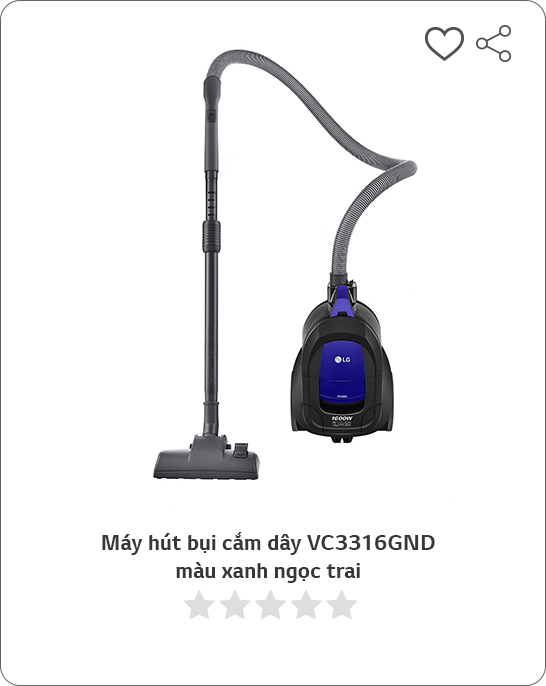
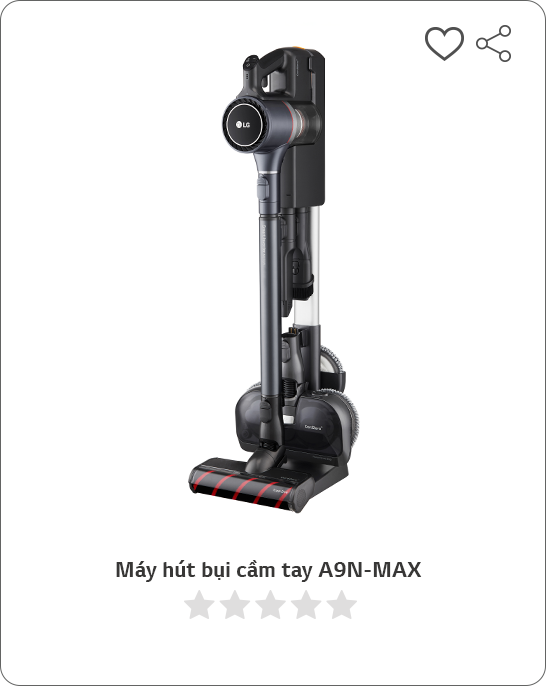
add

Changed region(s): [[0.1868, 0.0612, 0.8095, 0.8571]]

diff --git a/source/site/index.html b/source/site/index.html
@@ -124,7 +124,7 @@
                                    <li id="menu-2"><a href="/#FUNDS">THIẾT KẾ</a></li>
                                    <li id="menu-5"><a href="/#AI">AI</a></li>
                                    <li id="menu-6"><a href="/#PRODUCT">SẢN PHẨM</a></li>
-                                   <li id="menu-7"><a href="/#FORM">ĐĂNG KÝ</a></li>
+                                   <!-- <li id="menu-7"><a href="/#FORM">ĐĂNG KÝ</a></li> -->
                                </ul> 
                             </nav>
                             <div class="black-shadow"></div>
@@ -232,7 +232,7 @@
         </div>
     </section>
 
-    <section class="main-ia" id="IA">
+    <section class="main-ia" id="AI">
         <div class="container">
             <div class="row">
                 <div class="col-lg-3">
@@ -269,7 +269,7 @@
                     </a>
                 </div>
                 <div class="col-lg-4">
-                    <a href="https://www.lg.com/vn/may-hut-bui/lg-vc3316gnd" target="_blank">
+                    <a href="https://www.lg.com/vn/may-hut-bui/lg-a9n-max" target="_blank">
                         <div class="img-product"><img src="assets/images/3.png" alt="case 1"></div>
                         <div class="btn-product">MUA NGAY</div>
                     </a>

diff --git a/source/site/assets/css/style.css b/source/site/assets/css/style.css
@@ -1020,6 +1020,7 @@ textarea.form-input {
     background-repeat: no-repeat;
     min-height: 1100px;
     padding-top: 100px ;
+    display: none;
 }
 
 /*==========Services Start==========*/
